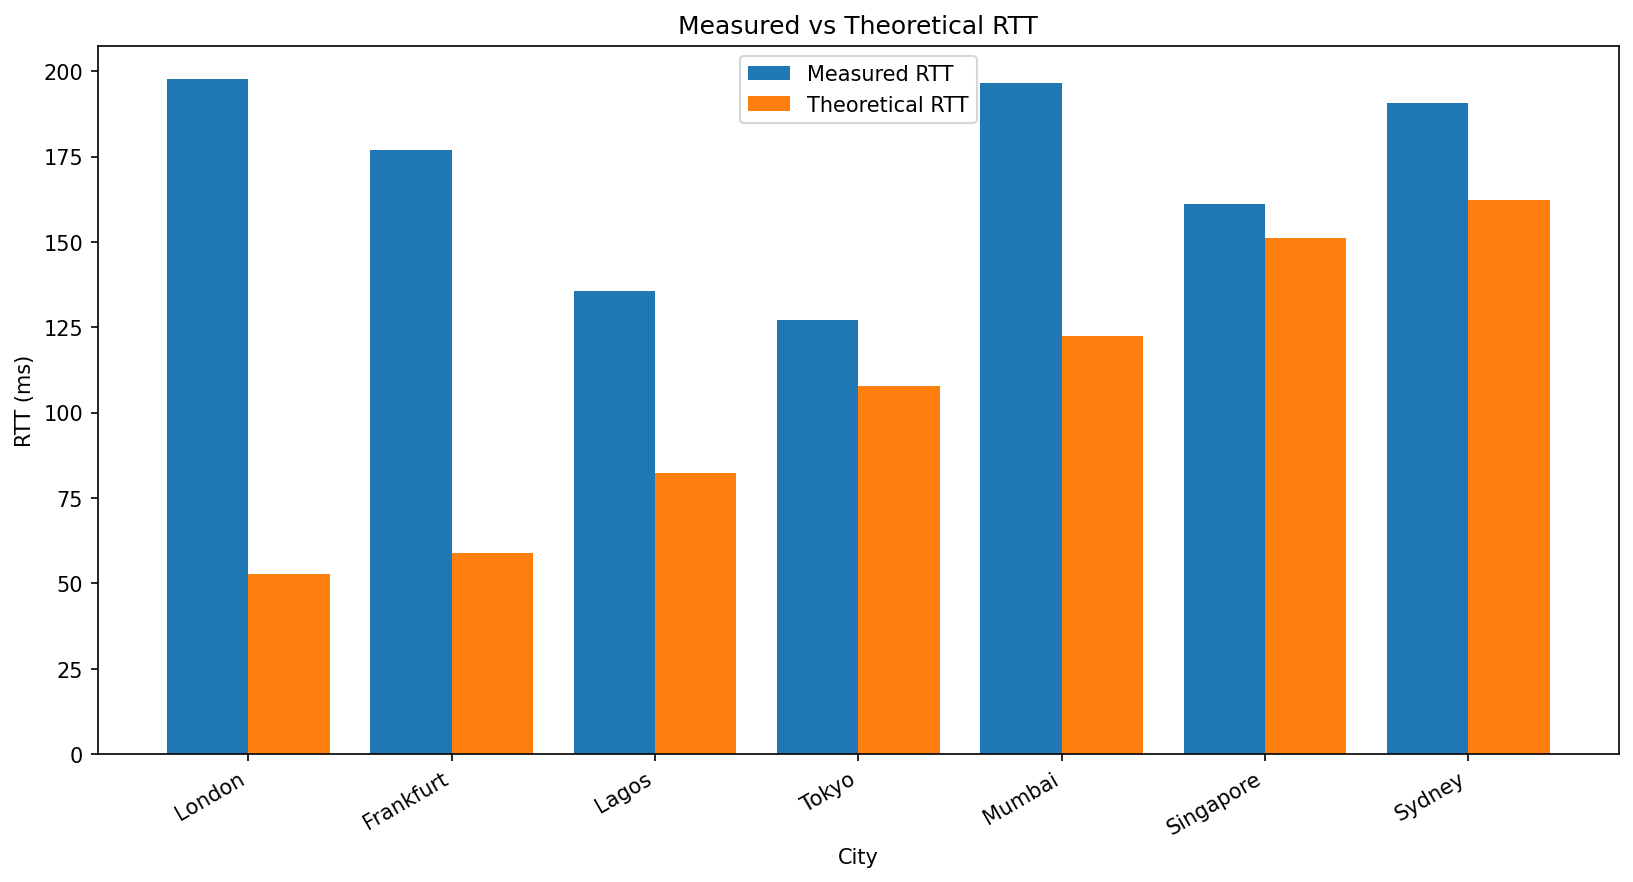
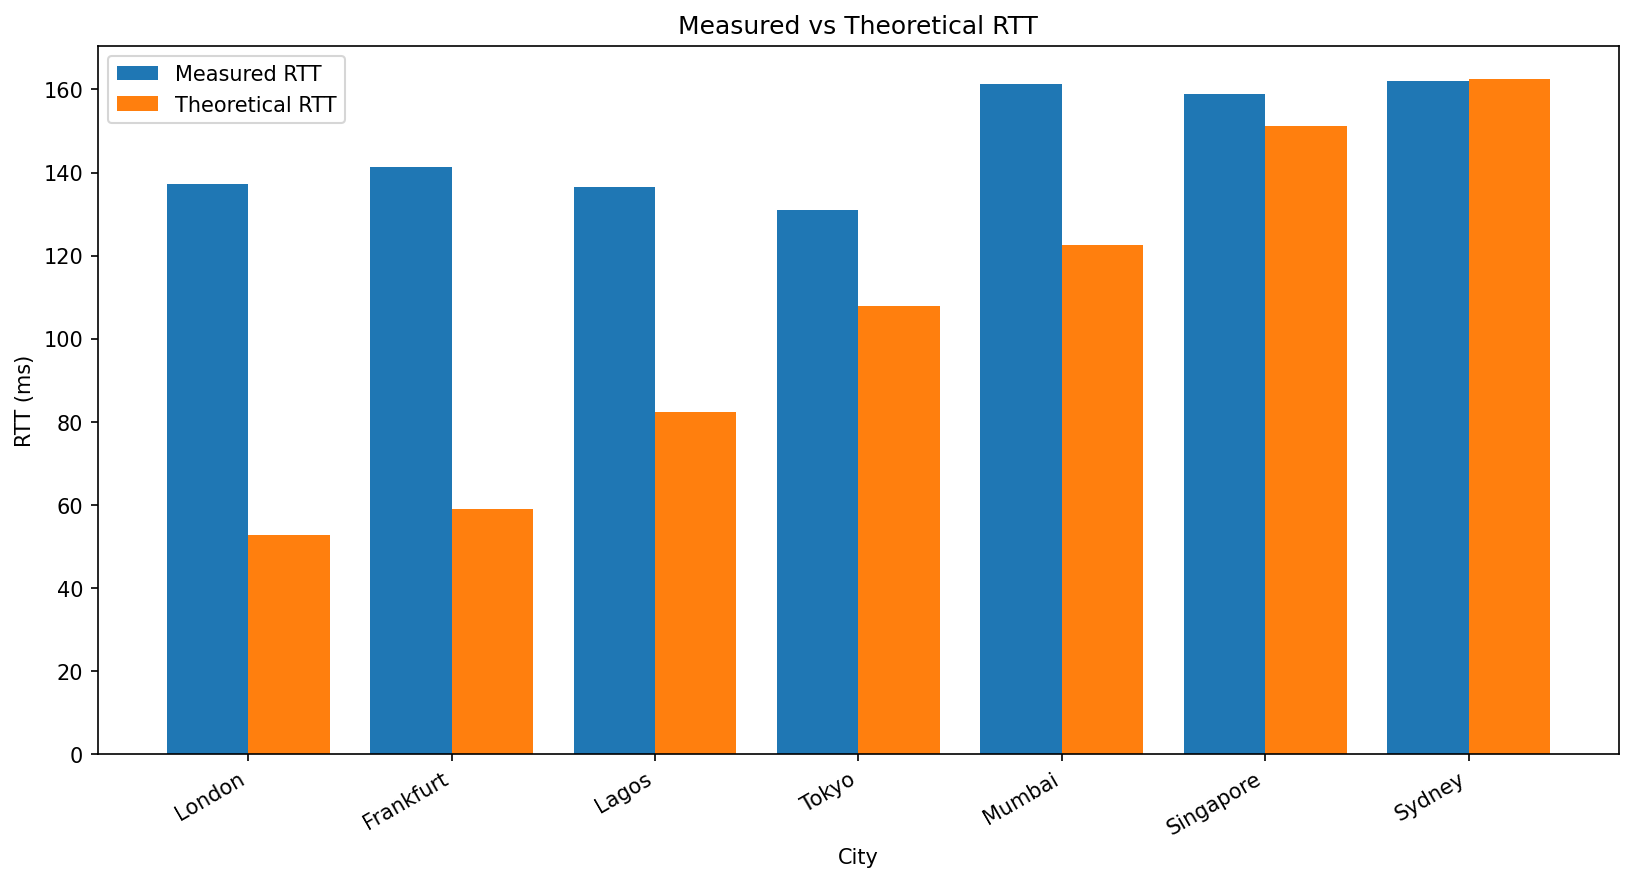
Final submission with additional targets

diff --git a/rtt_speedoflight.py b/rtt_speedoflight.py
@@ -24,6 +24,15 @@ TARGETS = {
     "Mumbai":       {"url": "http://www.google.co.in",   "coords": (19.0760,   72.8777), "continent": "Asia"},
     "London":       {"url": "http://www.google.co.uk",   "coords": (51.5074,   -0.1278), "continent": "Europe"},
     "Singapore":    {"url": "http://www.google.com.sg",  "coords": (1.3521,   103.8198), "continent": "Asia"},
+
+    "Sendai": {"url": "http://www.tohoku.ac.jp", "coords": (38.2682, 140.8694), "continent": "Asia"},
+    "Seoul": {"url": "http://www.snu.ac.kr", "coords": (37.5665, 126.9780), "continent": "Asia"},
+    "New Delhi": {"url": "http://www.iitd.ac.in", "coords": (28.6139, 77.2090), "continent": "Asia"},
+    "Santiago": {"url": "http://www.uchile.cl", "coords": (-33.4489, -70.6693), "continent": "S. America"},
+    "Johannesburg": {"url": "http://www.wits.ac.za", "coords": (-26.2041, 28.0473), "continent": "Africa"},
+    "Berlin": {"url": "http://www.fu-berlin.de", "coords": (52.5200, 13.4050), "continent": "Europe"},
+    "London (Imperial)": {"url": "http://www.imperial.ac.uk", "coords": (51.5074, -0.1278), "continent": "Europe"},
+    "Canberra": {"url": "http://www.anu.edu.au", "coords": (-35.2809, 149.1300), "continent": "Oceania"},        
 }
 
 PROBES           = 15

diff --git a/analysis.md b/analysis.md
@@ -2,27 +2,44 @@
 
 ## 1. Which city has the highest inefficiency ratio?
 
-London has the highest inefficiency ratio (~3.75). This means the measured RTT is almost 4 times higher than the theoretical minimum based on the speed of light.
+London has the highest inefficiency ratio (~2.61), followed by Frankfurt (~2.40). This means the measured RTT is more than double the theoretical minimum.
 
-This is likely due to indirect routing paths across the Atlantic. Data does not travel in a straight line and must pass through multiple routers and submarine cables. Transatlantic cables such as MAREA or AC-1 connect North America to Europe, but routing decisions and congestion can increase latency significantly.
+This inefficiency is primarily due to transatlantic routing. Data from Boston to Europe travels through submarine fiber optic cables such as MAREA or AC-1, but not in a straight line. It also passes through multiple routers and exchange points, adding processing delays and congestion.
 
 ---
 
 ## 2. Which city is closest to the theoretical minimum?
 
-Singapore has the lowest inefficiency ratio (~1.06), meaning it is very close to the theoretical limit.
+Sydney has the lowest inefficiency ratio (~1.00), meaning its measured RTT is almost identical to the theoretical minimum. Singapore is also very close (~1.05).
 
-This suggests that the network path is highly optimized, with efficient routing and minimal congestion. It may also benefit from modern infrastructure and high-quality submarine cable connections across Asia and the Pacific.
+This suggests that these routes are highly optimized, likely using modern, direct submarine cable infrastructure with minimal congestion and efficient routing paths.
 
 ---
 
-## 3. Why does Lagos often route through Europe first?
+## 3. Why are some cities unreachable?
 
-Lagos frequently shows inefficiency because many African internet routes are not directly connected to North America. Instead, traffic is often routed through Europe due to historical infrastructure development and limited direct transatlantic cables to West Africa.
+Several cities such as Sendai, Seoul, New Delhi, Santiago, Johannesburg, Berlin, London (Imperial), and Canberra were unreachable.
 
-Submarine cables like SAT-3 and WACS connect West Africa to Europe, so traffic may travel:
-North America → Europe → Africa
+This is likely because many university websites block automated HTTP requests or do not respond reliably to repeated probing. Some servers may also restrict access based on geographic region or rate-limit incoming requests.
 
-This indirect path increases latency.
+Even though RTT could not be measured, the theoretical distances were still computed correctly.
 
-To improve this, more direct submarine cables between North America and West Africa would be needed, along with improved regional internet exchange points (IXPs) to reduce dependency on European routing.
+---
+
+## 4. Why is real RTT higher than the speed-of-light limit?
+
+Real-world RTT is higher than the theoretical minimum because:
+- Fiber paths are not straight lines (they follow cable routes)
+- Data passes through multiple routers and switches
+- Network congestion adds delay
+- TCP/HTTP overhead introduces additional latency
+- Undersea cables may take indirect routes between continents
+
+---
+
+## 5. Observations
+
+- European cities (London, Frankfurt) show higher inefficiency due to transatlantic routing.
+- African and Asian cities (Lagos, Mumbai) show moderate inefficiency.
+- Long-distance routes (Sydney, Singapore) can still be efficient if routing is optimized.
+- Unreachable hosts highlight real-world measurement limitations when using HTTP-based probing.
